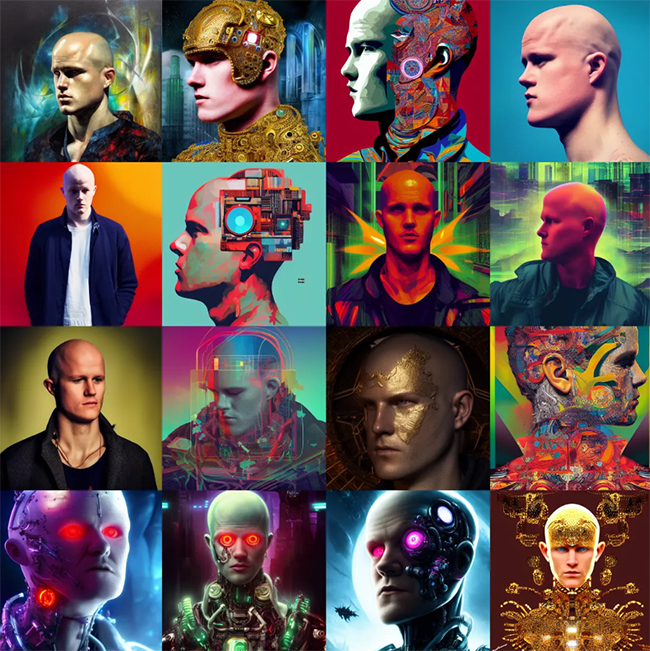
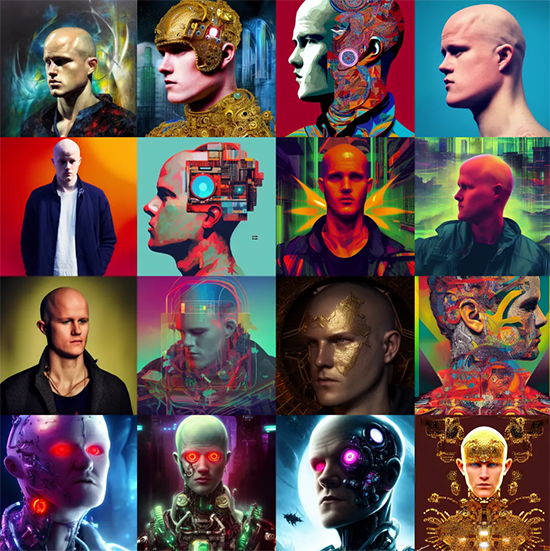
resize image

diff --git a/content/pages/about.md b/content/pages/about.md
@@ -20,6 +20,6 @@ Don't miss the opportunity to learn more about Sean's music and his journey as a
 
 
 <figure>
- <img src="/media/sean-avatars.png" alt="Sean Dreambooth Portraits">
+ <img src="/media/sean-avatars.png" alt="Sean Dreambooth Portraits" width="550" height="551">
  <figcaption>Sean Dearnaley</figcaption>
 </figure>
